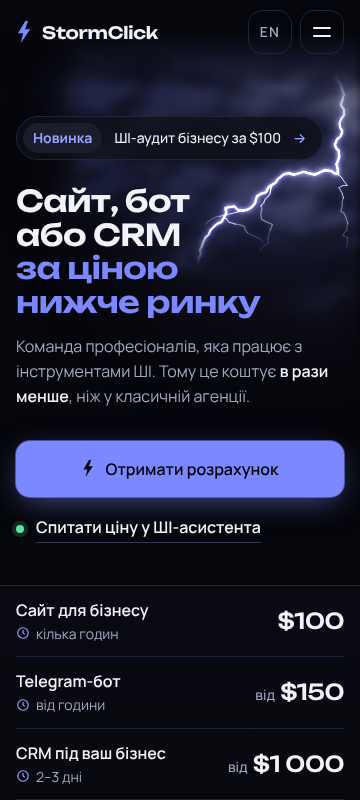
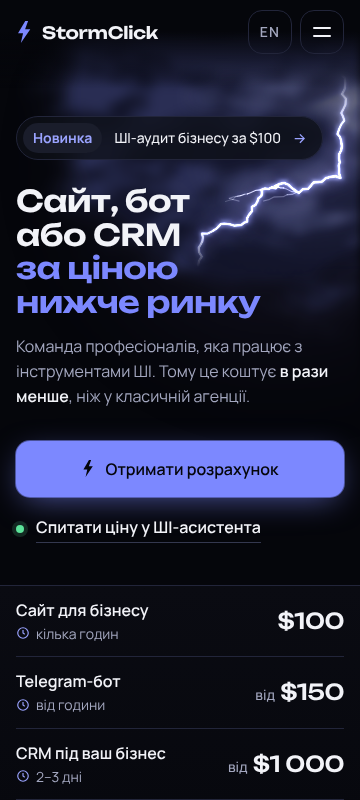
Макет: три типи ударів на телефоні, помітніші хмари
Claude-Session: https://claude.ai/code/session_01SrxZjAM5PvEX4BGjrzztdZ

Changed region(s): [[0.55, 0.0938, 0.9778, 0.3438]]

diff --git a/projects/stormclick-site/design/tokens.css b/projects/stormclick-site/design/tokens.css
@@ -33,6 +33,7 @@
   --storm-glow-mid: rgba(124, 136, 255, .16);  /* ореол 6 px, тінь #A98BFF blur 22 */
   --storm-glow-outer: rgba(124, 136, 255, .05); /* повітря 18 px, blur 44 */
   --storm-cloud-dark: rgb(16, 18, 36);   /* тінь хмари; світлий бік – до rgb(36, 40, 74) */
+  --storm-cloud-mobile: 1.65;            /* <768 px: щільність хмар ×1.65, колір ×1.22 */
   --storm-cloud-lit: rgb(150, 158, 255); /* підсвічена хмара; світлий бік – до rgb(230, 232, 255) */
 
   /* Шрифти */

diff --git a/projects/stormclick-site/design/design-brief.md b/projects/stormclick-site/design/design-brief.md
@@ -1,6 +1,6 @@
 # StormClick – дизайн-рішення першого екрана
 
-Обсяг: шапка + перший екран до першої прокрутки. Ширини: 360 (основна мобільна), 1440 (десктоп), 768 (без поломок). Додатково перевірено 1024×768, 1280×720, 1366×768, 1920×1080 (`shots/viewport-*.png`, `shots/strike-*.png`, `calm-*`, `reduced-motion-*`, `live-strike-*`).
+Обсяг: шапка + перший екран до першої прокрутки. Ширини: 360 (основна мобільна), 1440 (десктоп), 768 (без поломок). Додатково перевірено 1024×768, 1280×720, 1366×768, 1920×1080 (`shots/viewport-*.png`, `shots/strike-*.png`, `strike-360*-seeds.png`, `strike-360x800-type-A/B/C.png`, `calm-*`, `reduced-motion-*`, `live-*`).
 Файли: `tokens.css` – токени, `mockup.html` – макет (сцена шторму – робочий код, не заглушка), `shots/` – скриншоти макета.
 Джерела: `docs/brief.md` сайту, `src/i18n.js` (ключі UA), `src/pricing.js`, скриншоти й `report.json` поточного сайту.
 
@@ -104,19 +104,23 @@
 Замінює попередню ідею «шторм із частинок» (Three.js) і SVG-заглушку. Робочий код – у `<script>` наприкінці `mockup.html` (~440 рядків, без залежностей); у верстці його можна взяти майже як є, винісши в `storm.js`.
 
 **Шари** (усередині `.storm`, `position:absolute; inset:0; z-index:-1; pointer-events:none`):
-1. `canvas.storm-sky` – статичний: м'яке синє світіння неба + темні хмари. Хмари – value-noise (fBm, 4 октави; нижня октава ширша на великих екранах – до 260 px), рахуються один раз у 1/3 роздільності (від 1200 px – у 1/4) і масштабуються браузером; поверх – CSS `filter: blur(4px)` на `.storm-sky`, щоб не було видно сітки шуму. Маса хмар – еліпс угорі праворуч, до тексту згасає в чорний. До 768 px хмари на 35% щільніші – між ударами телефонний екран не чорний.
+1. `canvas.storm-sky` – статичний: м'яке синє світіння неба + темні хмари. Хмари – value-noise (fBm, 4 октави; нижня октава ширша на великих екранах – до 260 px), рахуються один раз у 1/3 роздільності (від 1200 px – у 1/4) і масштабуються браузером; поверх – CSS `filter: blur(4px)` на `.storm-sky`, щоб не було видно сітки шуму. Маса хмар – еліпс угорі праворуч, до тексту згасає в чорний. До 768 px хмари на 65% щільніші і на 22% світліші – між ударами телефонний екран не чорний (на 360 у зоні хмар середній колір (24,26,47) → (28,30,55), найсвітліші ділянки фону – на ~21% яскравіші, ніж до правки; контраст тексту над хмарами: білий ≥ 11.6:1, акцентна частина H1 ≥ 4.5:1, лід над хмарами не лежить – 8.3:1).
 2. `canvas.storm-fx` – порожній між ударами; під час удару – підсвічені хмари + блискавка.
 3. `.storm::before` – затемнення під шапкою (як і раніше).
 
 **Форма блискавки** (нова на кожен удар):
 - Старт – завжди в кадрі, під шапкою, нижче зони її кнопок. Десктоп: у вільній зоні праворуч від тексту, але не далі правого краю контенту + 80 px (на 1920 – x ≤ 1680, не в порожньому полі). 360/768: x від 55% ширини до W−24. Верхні 70 px каналу плавно проявляються – він виходить із хмари, а не обрізаний.
-- **360 px:** плашка-анонс закінчується на x≈323, тому канал спершу спускається у проміжку між плашкою (відступ 10 px) і краєм екрана, а нижче плашки ламається по діагоналі в кишеню праворуч від коротких рядків «Сайт, бот / або CRM» (x≈200–346, до рівня над лідом). Звідси старт на x≈333–336 – у кадрі, але ближче до краю, ніж на інших ширинах; ширшого проходу на 360 без зміни погодженої композиції немає. Гілки з цього проміжку не пускаються.
+- **360 px – три типи траєкторії.** Плашка-анонс закінчується на x≈323 і закриває шлях униз від шапки, тому вільні лише проміжок праворуч від плашки (відступ 14 px, тобто x≈337–348) і кишеня праворуч від коротких рядків «Сайт, бот / або CRM» (x≈205–346, до рівня над лідом). Щоб удари не виглядали однаково, є три композиції:
+  - **A** – старт під шапкою в проміжку біля плашки, униз до низу плашки, далі діагональ униз-ліворуч у кишеню;
+  - **B** – старт там само, канал прямо вниз біля краю до рівня ліду, гілки переважно ліворуч у кишеню;
+  - **C** – старт з основи хмари одразу під плашкою, лівіше (x≈209–288), діагональ униз-праворуч; хмара над стартом підсвічується.
+  Жива анімація щоразу бере тип, відмінний від попереднього (5 ударів поспіль у тесті: A, C, B, A, C). Для A і B старт на x≈339–342 – у кадрі, на 18–21 px від краю (пропозицію рецензента «до W−24» на 360 не виконати: плашка з відступом 14 px закінчується на 337). Гілки з проміжку біля плашки не пускаються. На ширших телефонах і 768 плашка шлях не закриває – там один тип: старт угорі праворуч, найдовша вільна діагональ.
 - Ціль: на десктопі – найглибша вільна точка (за лінію табло), на 360/768 – найдовша вільна діагональ до рівня над лідом.
 - Вимоги до форми: видимий головний канал не коротший за 180 px (360/768) і 300 px (десктоп), щонайменше 2 гілки; інакше генерується нова форма (до 60 спроб).
 - Кінець: на десктопі останні 3 кроки перед табло – не далі ±30° від вертикалі (без гачка вбік), канал іде за лінію табло. На 360/768 нижні 40/55 px каналу плавно гаснуть – «йде за кадр», а не обривається тупим кінцем.
 - Гілки завжди йдуть униз (не далі ±75° від вертикалі) – без горизонтальних уламків.
 - Головний канал – випадкове блукання до цілі (кроки 10–34 px, відхилення до ±43°, іноді ±77°), потім дрібна ламаність (зміщення середин відрізків, 2 рівні). 2–4 гілки під кутом 30–70°, тоншають і гаснуть до кінця; гілка може мати свою гілку.
-- **Заборонені зони:** рядки H1 і ліду (кожен рядок окремо, а не весь блок), плашка-анонс, кнопка, посилання на асистента, елементи шапки – з відступом 24 px (на <768 – 14 px, від плашки – 10 px). Канал і гілки їх обходять; гілка, що впирається, обривається.
+- **Заборонені зони:** рядки H1 і ліду (кожен рядок окремо, а не весь блок), плашка-анонс, кнопка, посилання на асистента, елементи шапки – з відступом 24 px (на <768 – 14 px, від плашки теж 14 px – ореол не торкається її рамки). Канал і гілки їх обходять; гілка, що впирається, обривається.
 - Рендер (один раз на удар у два офскрін-canvas, далі лише `drawImage`, режим `lighter`):
   - світіння – у canvas **1/4 роздільності** (розмиття там у ~16 разів дешевше), при виводі масштабується: повітря 18 px `rgba(124,136,255,.07)` blur 44 → ореол 7 px blur 22 тінню `#A98BFF` → ореол 3.5 px `rgba(200,206,255,.6)` blur 8;
   - ядро – у повній роздільності, без тіней: 4 px `rgba(170,178,255,.28)` → 2.6 px `rgba(214,219,255,.55)` → біле 1.8 px.
@@ -139,13 +143,13 @@
 
 **Доступність:** `prefers-reduced-motion: reduce` – без таймерів і анімації, один статичний кадр блискавки (м'якший: 80% каналу, 30% неба). Сцена `aria-hidden`, текстової альтернативи не потребує (декор).
 
-**Режими для перевірки скриншотами:** `?strike` – застиглий кадр удару з фіксованим seed (однакова форма щоразу), `?strike=N` – інший детермінований варіант (N = 0, 1, 2…), `?calm` – хмари між ударами, без параметрів – жива анімація. `?notes` – анотація. На сайті ці параметри можна лишити – вони нічого не ламають.
+**Режими для перевірки скриншотами:** `?strike` – застиглий кадр удару з фіксованим seed (однакова форма щоразу), `?strike=N` – інший детермінований варіант (N = 0, 1, 2…; на 360 тип траєкторії = N mod 3: 0 – A, 1 – B, 2 – C), `?calm` – хмари між ударами, без параметрів – жива анімація. `?notes` – анотація. На сайті ці параметри можна лишити – вони нічого не ламають.
 
 **Як перенести у верстку:**
 - Розмітку `.storm` з двома canvas і CSS з макета – як є; скрипт – окремим файлом з `defer`.
 - Якщо змінюються класи – оновити селектори в `measure()`: `.header .container > *`, `.announce`, `.actions > *`, `h1`, `.lead`, `.proof`. Нові елементи на першому екрані (наприклад, мобільне меню поверх героя чи плаваюча кнопка асистента) додати в заборонені зони.
 - Будувати сцену після `load` + `document.fonts.ready` і перераховувати зони при `loadingdone` і зміні мови UA/EN (шрифт і мова змінюють ширину рядків).
-- Селектор `.announce` використовується окремо (відступ 10 px на телефоні) – якщо плашка зміниться чи зникне, перевірити 360 px: шлях каналу на телефоні залежить від її правого краю.
+- Селектор `.announce` використовується окремо – якщо плашка зміниться чи зникне, перевірити 360 px: типи траєкторії A/B/C на телефоні залежать від її правого краю (вмикаються, коли плашка заходить правіше 55% ширини).
 - Поведінку з брифу сайту «на скролі частинки складаються в логотип» сцена не відтворює – див. питання 7.
 
 ## Компоненти
